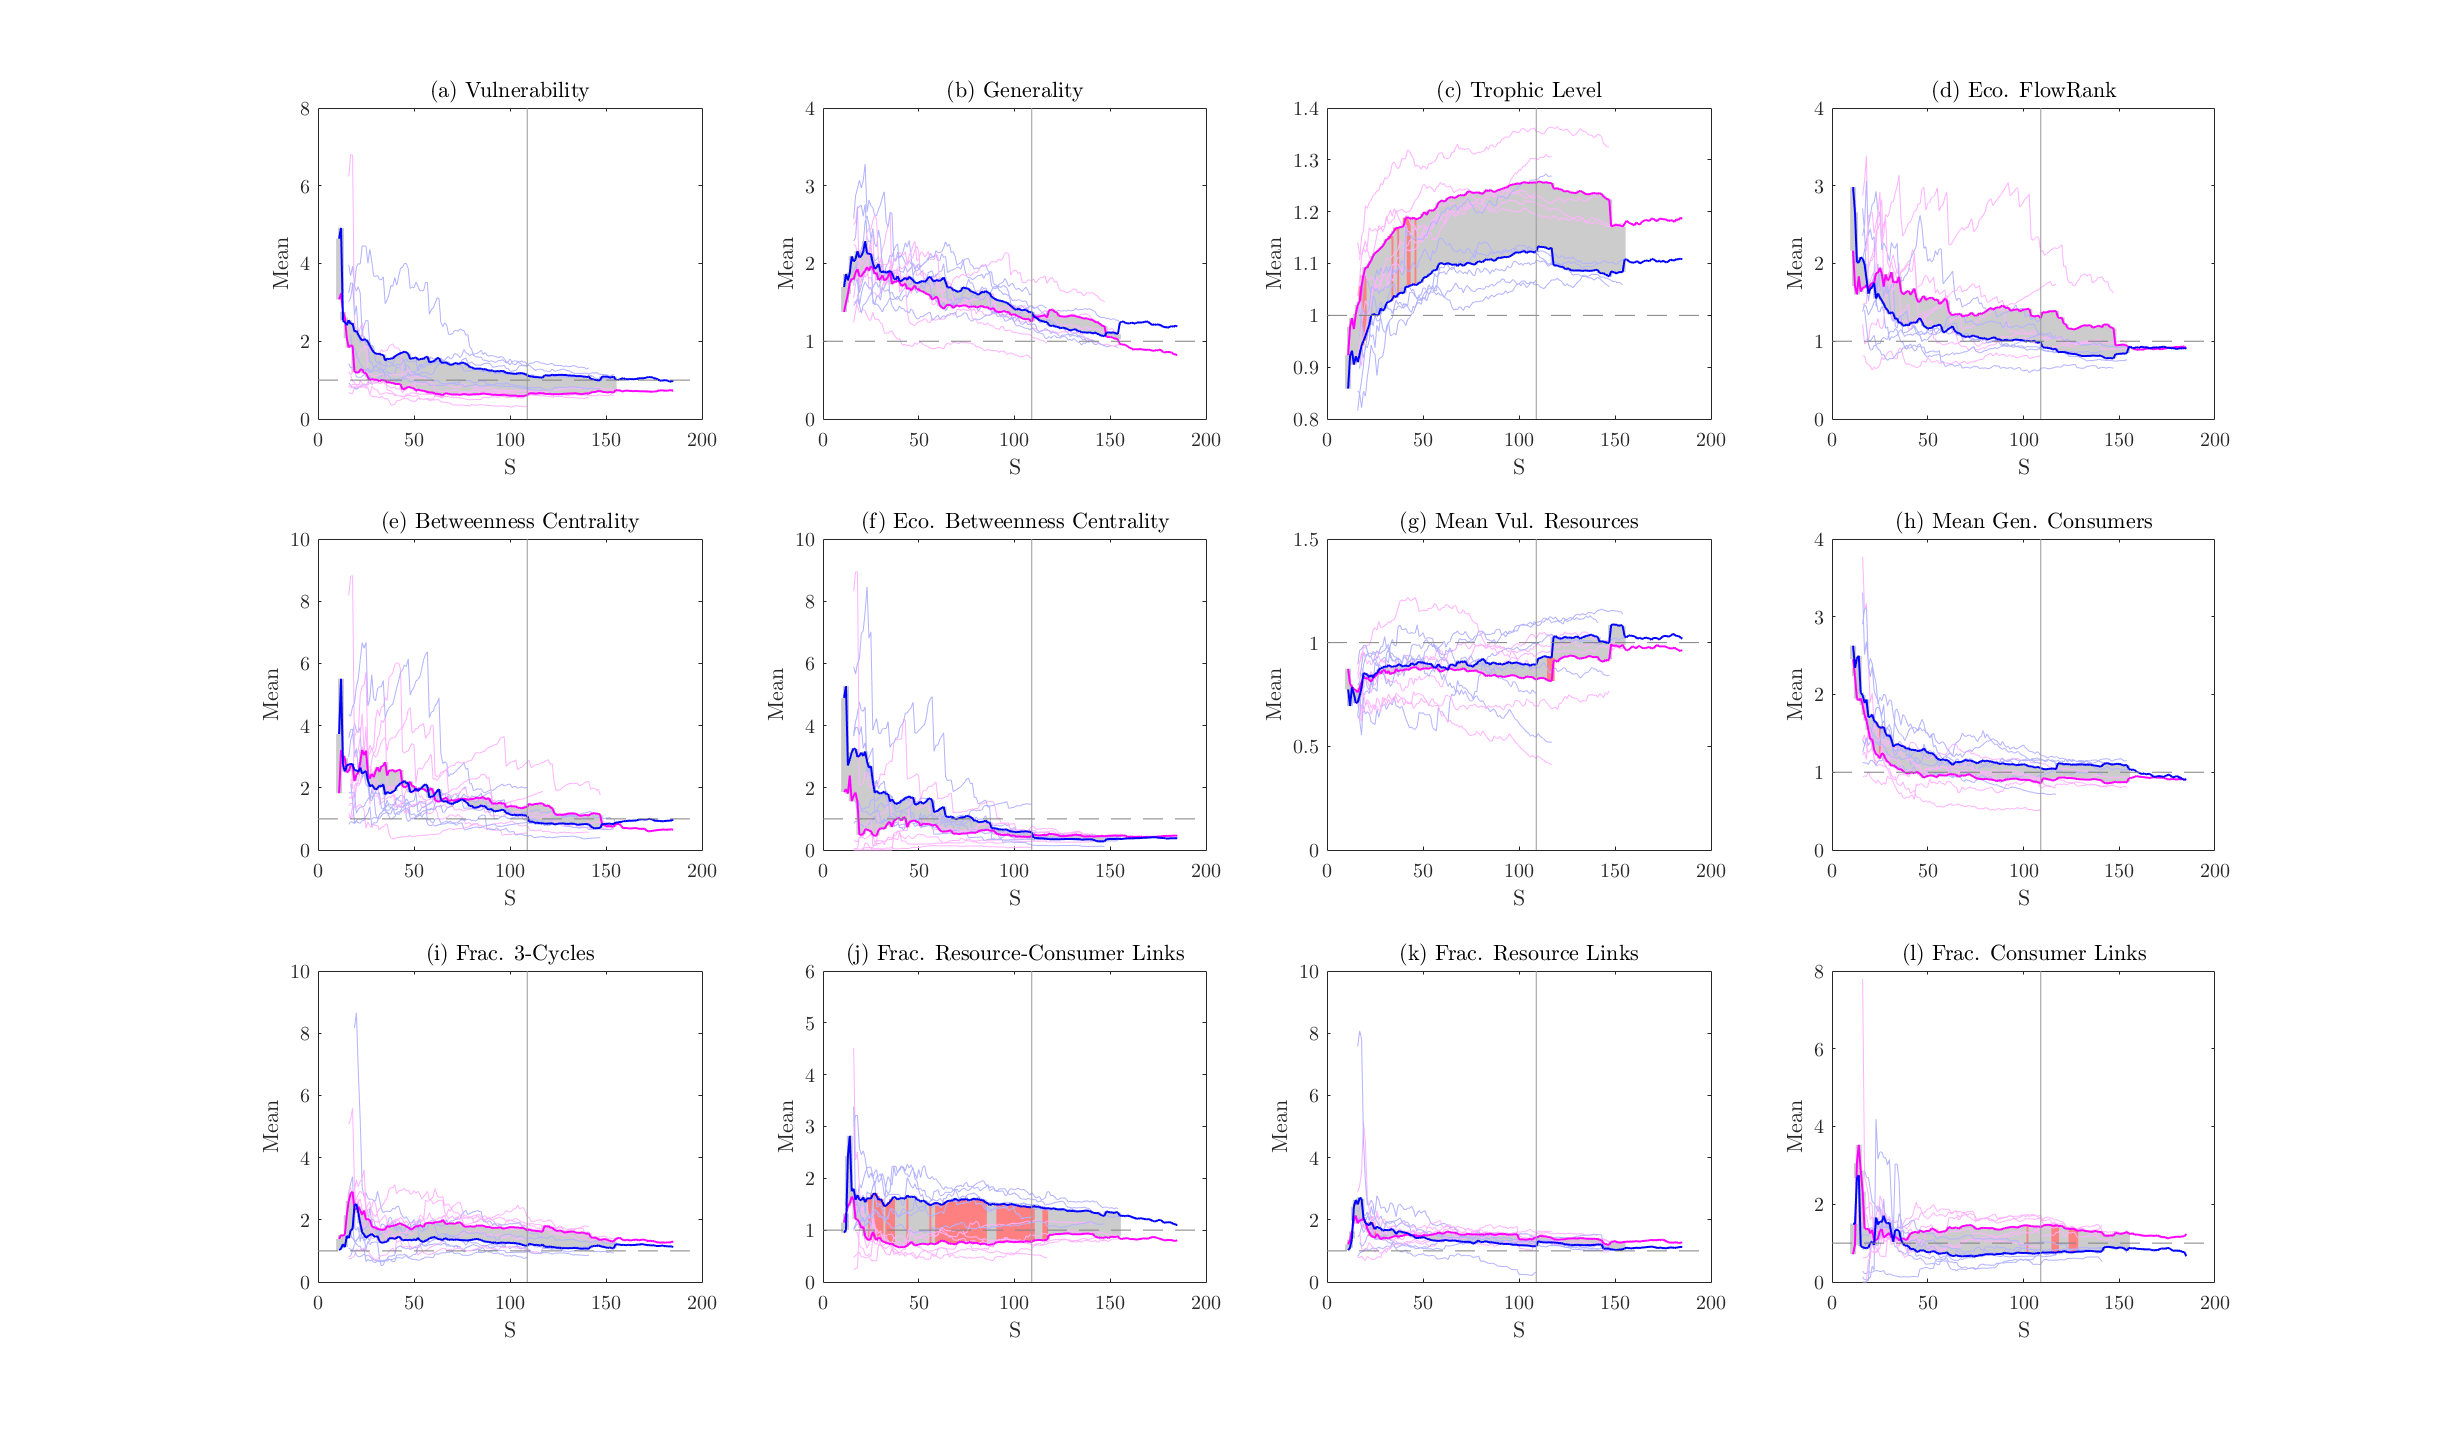
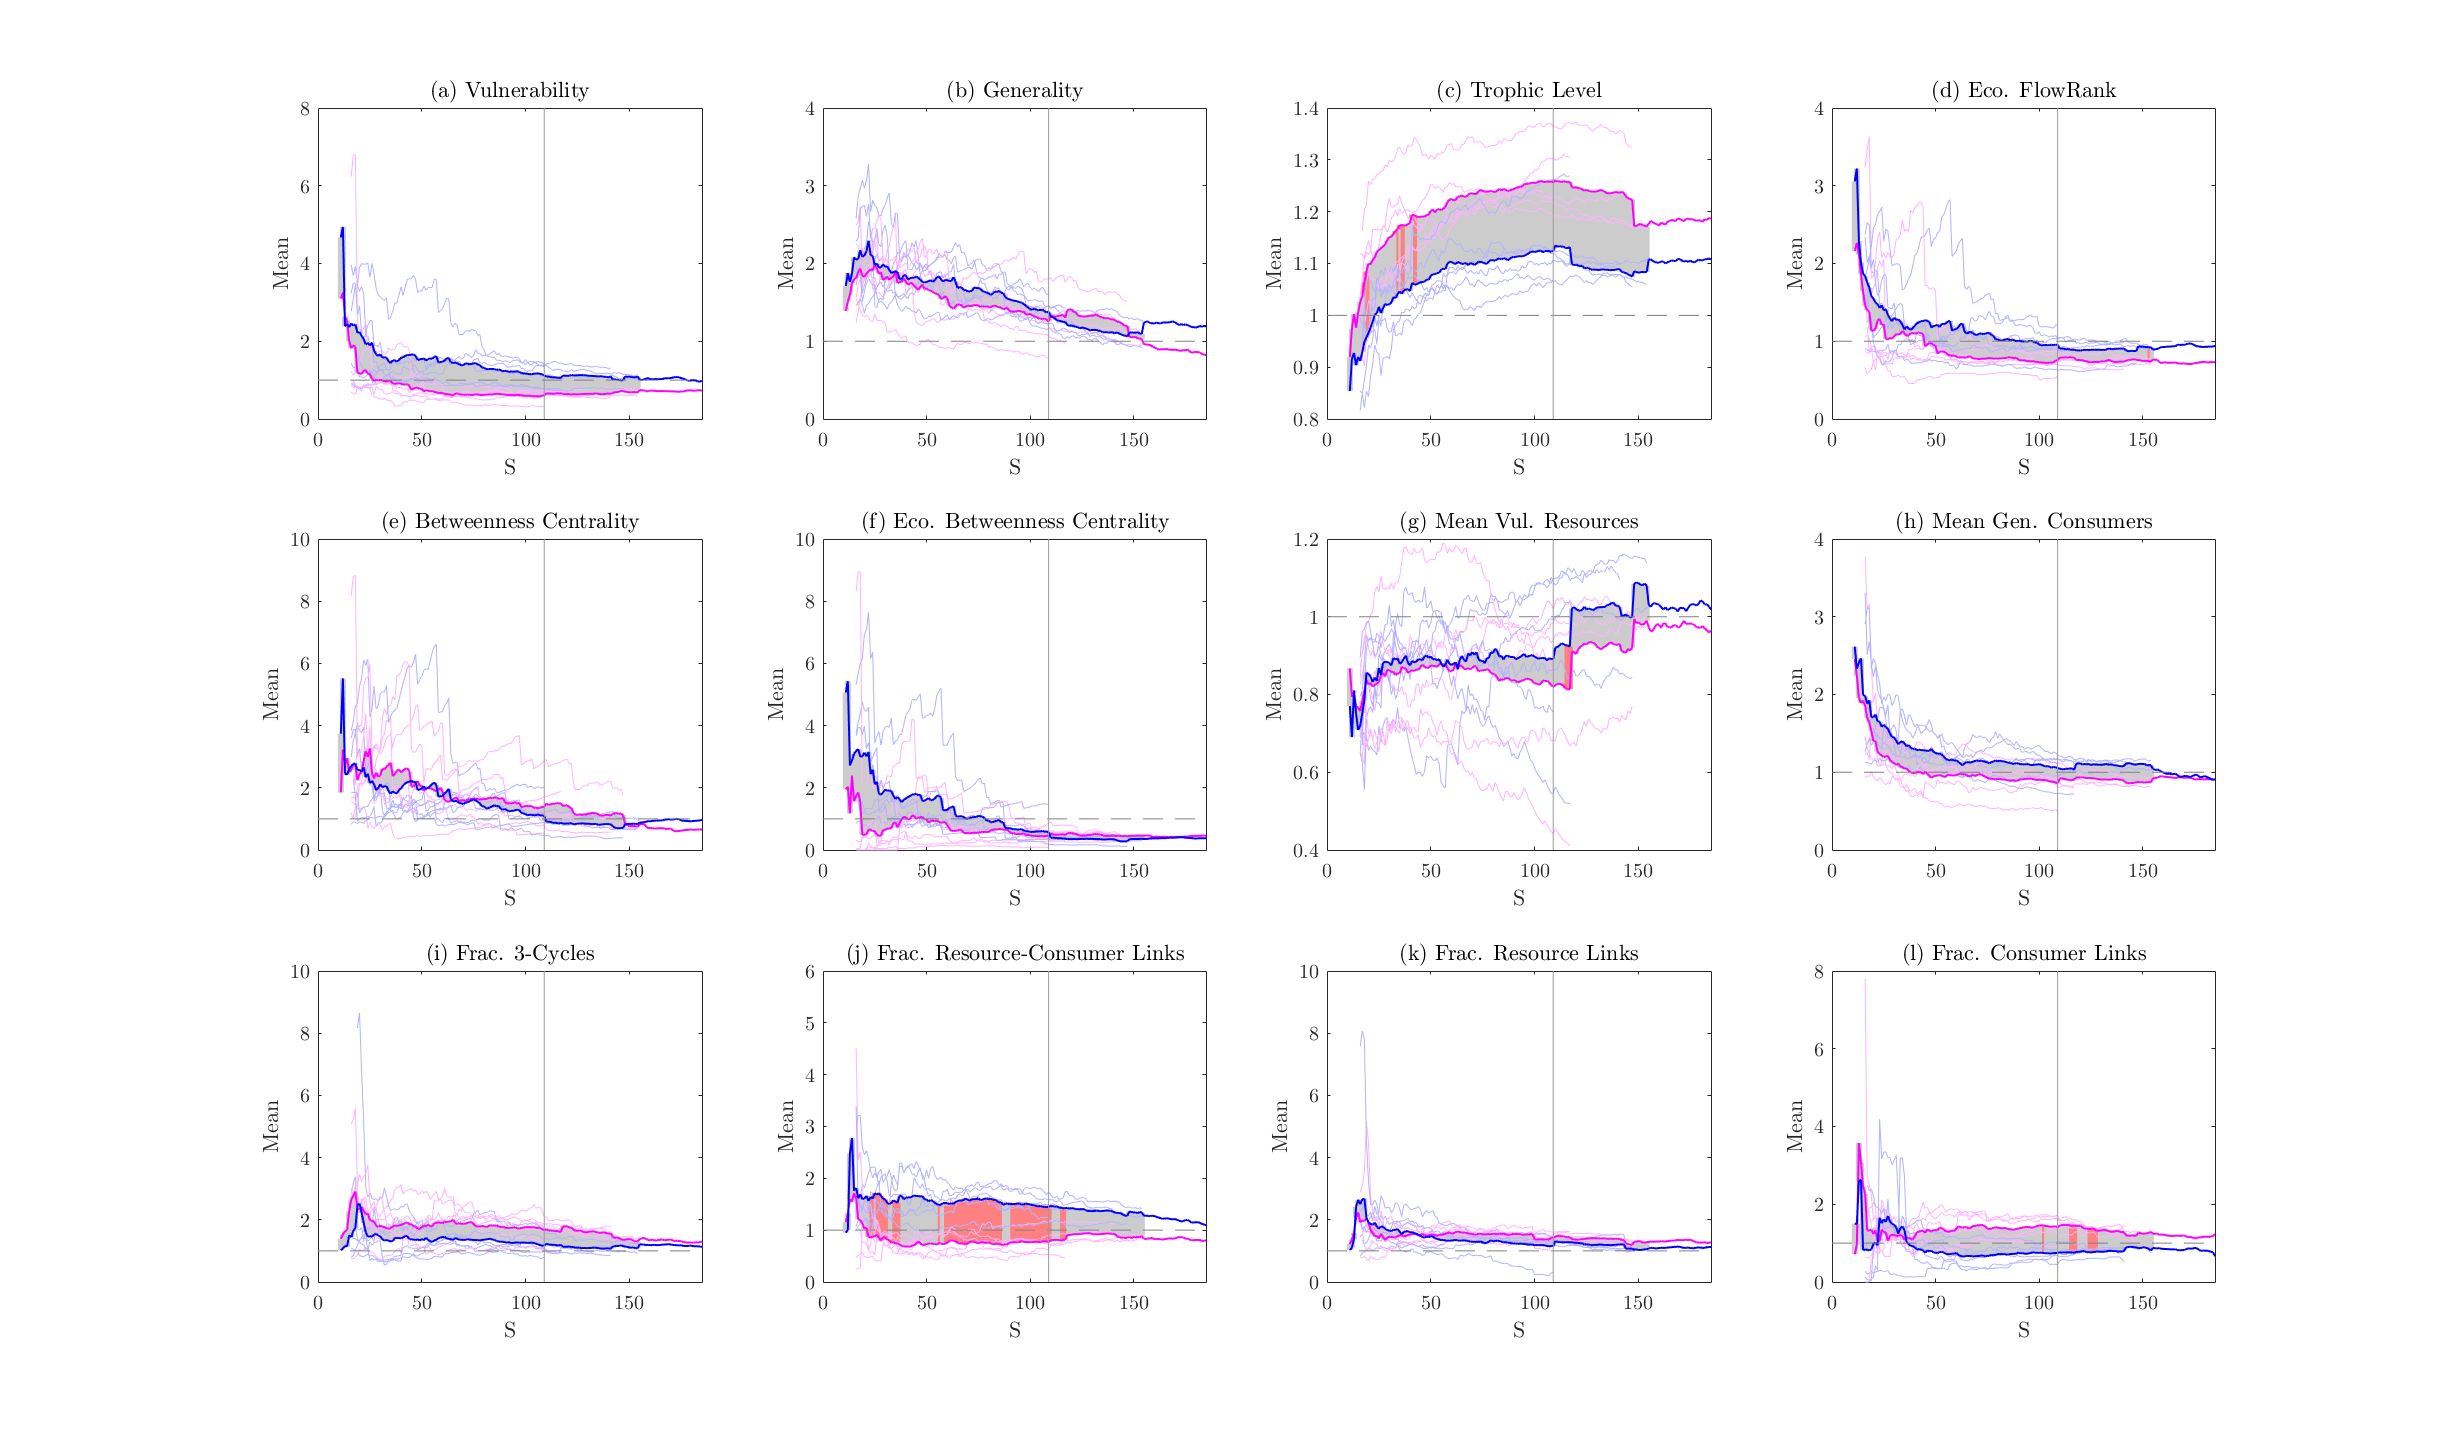
A few changes and classification results

diff --git a/Chapter2/code/Classifiers.m b/Chapter2/code/Classifiers.m
@@ -1,0 +1,242 @@
+%Biggest question here is HOW DO I REACH THESE KEEDS???
+
+%jk, biggest question is how to align the webs so that we can get a big fat
+%set of species to look at...
+%option 1: By web size
+%   Pros: easy-peasy, somewhat standard control
+%   Cons: agglomerated webs must be different from normal webs, right?;
+%         
+%option 2: By minimum node distance
+%   Pros: Agrees with the process; accounts for differences in the very
+%   process i am testing...
+%   Cons: Harder to line things up right
+%         
+%Another issue is whether to compare 
+% 1. parasites to free-livers, 
+% 2. parasites to carnivores,
+% 3. either of the above in an invertebrate-basal web
+% For whatever reason, I'm not really a big fan of the invertebrate-basal
+% web so I'm just comparing to carnivores since option 1 is pretty clearly
+% wrong anyway.
+
+%SPOILER ALERT: initial webs should be pretty opaque by these measures; the
+%**hope** is that later in the agglomeration sequences a pattern deus ex
+%machina's itself and slaps me across the face
+
+%Linear Regression
+%Logit model
+%Classification Trees
+%knn?
+
+%Setting up.
+clear
+
+load('data/Processed/webGeneration.mat')
+T = load('AgglomerationProps.mat','propsLocal','localCol');
+
+propsLocal = T.propsLocal;
+localCol = T.localCol;
+%In case you were wondering.
+%{
+localNames = {'web'           ...1
+                ,'vul'        ...2
+                ,'gen'        ...3
+                ,'patl'       ...4
+                ,'cc'         ...5
+                ,'pr'         ...6
+                ,'btwn'       ...7
+                ,'ecoBtwn'    ...8
+                ,'meanVulPrey'...9
+                ,'meanGenPred'...10
+                ,'para'       ...11
+                ,'free'       ...12 actually, carn
+                ,'S'          ...13
+                ,'size'       ...14
+                ,'ccCyc'      ...15
+                ,'ccMid'      ...16
+                ,'ccIn'       ...17
+                ,'ccOut'      ...18
+                };
+%}
+variableNames = {'vul'        ...1
+                ,'gen'        ...2
+                ,'patl'       ...3
+                ,'pr'         ...4
+                ,'btwn'       ...5
+                ,'ecoBtwn'    ...6
+                ,'meanVulPrey'...7
+                ,'meanGenPred'...8
+                ,'ccCyc'      ...9
+                ,'ccMid'      ...10
+                ,'ccIn'       ...11
+                ,'ccOut'      ...12
+                ,'para'       ...13
+                };
+clear T
+
+sMin = min(propsLocal(:,localCol('S')));
+sMax = max(propsLocal(:,localCol('S')));
+
+
+X0 = propsLocal(:,[2:4, 6:10, 15:18]);
+%Y01 = propsLocal(:,11);   %Continuous; for regression.
+Y0 = propsLocal(:,11)>0; %categorical
+sLevels = 30:85;
+nLevels = numel(sLevels);
+
+
+
+glms = cell(nLevels,1);
+trees = cell(nLevels,1);
+
+glmErrors = nan(nLevels,1);
+treeErrors = nan(nLevels,1);
+naddas  = nan(nLevels,1);
+
+treeParasites = nan(nLevels,1);
+glmParasites = nan(nLevels,1); 
+treeTotals = nan(nLevels,1);
+glmTotals = nan(nLevels,1);
+
+bigGlmParasites = nan(nLevels,1);
+bigTreeParasites = nan(nLevels,1);
+bigGlmTotals = nan(nLevels,1);
+bigTreeTotals = nan(nLevels,1);
+bigGlmErrors = nan(nLevels,1);
+bigTreeErrors = nan(nLevels,1);
+    
+pickForBig = propsLocal(:,localCol('S'))==100;
+XForBig = X0(pickForBig,:);
+YForBig = Y0(pickForBig,:);
+
+ glmBig = fitglm(XForBig,YForBig...
+        ,'distribution','binomial'...
+        ,'varNames',variableNames);
+   
+ treeBig = fitctree(XForBig,YForBig...
+        ,'PredictorNames',variableNames(1:12)...
+        ,'MaxNumSplits',4 ...
+        ,'MinleafSize',10);
+
+for ii = 1:nLevels
+    
+    s= sLevels(ii);
+    
+    pickThese = (propsLocal(:,localCol('S'))==s);
+    
+    X = X0(pickThese,:);
+    %Y1 = Y01(pickThese,:); %continuous for regression?
+    Y = Y0(pickThese,:);
+    
+    n = sum(pickThese);
+    nTrain = round(0.5*n);
+    nTest = n-nTrain;
+    
+    glmError = 0;
+    treeError = 0;
+    glmParasite = 0;
+    treeParasite = 0;
+    glmTotal = 0;
+    treeTotal = 0;
+    
+    bigGlmError = 0;
+    bigTreeError = 0;
+    bigGlmParasite = 0;
+    bigTreeParasite = 0;
+    bigGlmTotal = 0;
+    bigTreeTotal = 0;
+    
+    nadda = 0;
+    nReps = 10;
+    for z = 1:nReps
+    trainThese = false(n,1);
+    trainTheseIndices = randsample(n,nTrain);
+    trainThese(trainTheseIndices) = true;
+    testThese = ~trainThese;
+    
+    XTrain = X(trainThese,:);
+    YTrain = Y(trainThese,:);
+    
+    XTest = X(testThese,:);
+    YTest = Y(testThese,:);
+
+    glm = fitglm(XTrain,YTrain...
+        ,'distribution','binomial'...
+        ,'varNames',variableNames);
+    YTestHat = (glm.predict(XTest)>=.5);
+    glmError = (1 - sum(YTestHat == YTest)/nTest)/nReps + glmError;
+    glmTotal = (sum(YTestHat)/nTest)/nReps + glmTotal;
+    glmParasite = sum(YTest&YTestHat)/sum(YTest)/nReps + glmParasite;
+    
+    tree = fitctree(XTrain,YTrain...
+        ,'PredictorNames',variableNames(1:12)...
+        ,'MaxNumSplits',4 ...
+        ,'MinleafSize',10);
+    YTestHat = tree.predict(XTest);
+    treeError = (1 -sum(YTestHat == YTest)/nTest)/nReps + treeError;
+    treeTotal = (sum(YTestHat)/nTest)/nReps + treeTotal;
+    treeParasite = sum(YTest&YTestHat)/sum(YTest)/nReps + treeParasite;
+    
+    nadda = mean(YTest)/10 + nadda;
+    
+    YTestHat = treeBig.predict(XTest);
+    bigTreeError = (1 -sum(YTestHat == YTest)/nTest)/nReps + bigTreeError;
+    bigTreeTotal = (sum(YTestHat)/nTest)/nReps + bigTreeTotal;
+    bigTreeParasite = sum(YTest&YTestHat)/sum(YTest)/nReps + bigTreeParasite;
+    
+    YTestHat = (glmBig.predict(XTest)>=.5);
+    bigGlmError = (1 - sum(YTestHat == YTest)/nTest)/nReps + bigGlmError;
+    bigGlmTotal = (sum(YTestHat)/nTest)/nReps + bigGlmTotal;
+    bigGlmParasite = sum(YTest&YTestHat)/sum(YTest)/nReps + bigGlmParasite;
+    
+    end
+    
+    %lms{ii} = lm;
+    glms{ii} = glm;
+    trees{ii} = tree;
+    
+    glmParasites(ii) = glmParasite;
+    treeParasites(ii) = treeParasite;
+    glmTotals(ii) = glmTotal;
+    treeTotals(ii) = treeTotal;
+    glmErrors(ii) = glmError;
+    treeErrors(ii) = treeError;
+    
+    bigGlmParasites(ii) = bigGlmParasite;
+    bigTreeParasites(ii) = bigTreeParasite;
+    bigGlmTotals(ii) = bigGlmTotal;
+    bigTreeTotals(ii) = bigTreeTotal;
+    bigGlmErrors(ii) = bigGlmError;
+    bigTreeErrors(ii) = bigTreeError;
+    
+    naddas(ii) = nadda;
+    
+end
+close all
+figureFont = 'CMU Serif';
+lossFig = figure;
+plot(sLevels,[glmErrors treeErrors naddas]);
+%If you want to look at how the big tree does; I don't think it's good
+%because you have a lot of the same species at different points along the
+%clustering sequence.
+%glmTotals treeTotals bigGlmErrors bigTreeErrors bigGlmTotals bigTreeTotals])
+legend('logit','tree','frac. Para')
+%heheheh
+%...   ,'Pred. Frac. Para logit','Pred. Frac. Para Tree','bigLogit','bigTree','pred Frac. bigLogit','pred Frac. bigTree')
+title('Loss for two classifiers')
+xlabel('Web Size')
+ylabel('Loss')
+set(gcf, 'Units', 'Inches', 'Position', [0, 0, 17, 10])
+arrayfun(@(x) set(x,'FontName',figureFont),lossFig.Children);
+print('../figures/Loss.png','-dpng','-r0')
+accFig = figure;
+plot(sLevels,[glmParasites, treeParasites])
+%Samesies about the big tree/glm stuff.
+%, bigGlmParasites, bigTreeParasites])
+legend('glm','tree') %,'bigGlm','bigTree')
+title('Fractions Parasite Identified')
+xlabel('Web Size')
+ylabel('Fraction of Parasites')
+set(gcf, 'Units', 'Inches', 'Position', [0, 0, 17, 10])
+arrayfun(@(x) set(x,'FontName',figureFont),accFig.Children);
+print('../figures/ParasiteAcc.png','-dpng','-r0')

diff --git a/Chapter2/code/AgglomerationPlots.m b/Chapter2/code/AgglomerationPlots.m
@@ -226,32 +226,6 @@ for jj = 1:nLocalPropsPlotted
     hold off
     title(fancyLocalNames{jj},'Interpreter','LaTeX')
     
-    figure(localFigRelNodeLevel) 
-    for ii = 1:nWebs
-        subplot(3,4,jj);
-        hold on
-        %{
-        hEveryWeb{jj,ii} = plot(localMeans(beginnings(ii):endings(ii),localMeanCol('minDistance')),freesThisProperty(beginnings(ii):endings(ii))...
-            ,localMeans(beginnings(ii):endings(ii),localMeanCol('minDistance')),parasThisProperty(beginnings(ii):endings(ii))...
-            );
-        set(hEveryWeb{jj,ii},{'LineWidth'},{.5;.5})
-        set(hEveryWeb{jj,ii},{'Color'},{[.7,.7,1];[1 .7 1]})
-        %}
-        q = plot(1-allNodeLevels(beginnings(ii):endings(ii))/allNodeLevels(beginnings(ii)),freesThisProperty(beginnings(ii):endings(ii))...
-            - parasThisProperty(beginnings(ii):endings(ii))...
-            );
-        if ii == 4
-            q.Color = 'r';
-        else
-            q.Color =[.5,.5,.5];
-        end
-        hold off
-    end
-    q = refline(0,0);
-    q.LineStyle = '--';
-    q.Color = 'k';
-    title(fancyLocalNames{jj},'Interpreter','LaTeX')
-    
     figure(localFigFirst);
     xs = localMeans(selectThisLevelGlobal,localMeanCol(localPropsPlottedFree{jj}));
     ys = localMeans(selectThisLevelGlobal,localMeanCol(localPropsPlottedPara{jj}));
@@ -261,6 +235,8 @@ for jj = 1:nLocalPropsPlotted
     
     subplot(3,4,jj);
     h = gscatter(xs,ys,gps,markColors,'.',markSizes,'off');
+    xlabel('Carnivore Average')
+    ylabel('Parasite Average')
     title(fancyLocalNames{jj},'Interpreter','LaTeX')
     if jj == 8
         xlabel('Carnivore Average')
@@ -394,6 +370,8 @@ for jj = 1:nLocalPropsPlotted
         rl.LineStyle = '--';
         yl = ylim();
         ylim(yl);
+        xlabel('Min. Cluster Distance')
+        ylabel('Carnivore $-$ Parasite','Interpreter','LaTeX')
         hold off
         
         figure(localFigAll);
@@ -409,7 +387,8 @@ for jj = 1:nLocalPropsPlotted
         rl.Color = [.5,.5,.5];
         rl.LineStyle = '--';
         yl = ylim();
-        plot([Ss(end);Ss(end)],[yl(1);yl(2)],'Color',[.6,.6,.6])
+        plot([Ss(end);Ss(end)],[yl(1) ;yl(2)],'Color',[.6,.6,.6])
+        axis([0,max(Ss) ylim]);
         ylim(yl);
         hold off
 end

diff --git a/Chapter2/code/agglomPlot.m b/Chapter2/code/agglomPlot.m
@@ -1,4 +1,4 @@
-load('data/Processed/webGeneration.mat')
+load('data/Processed/webGenerationEctoInverts.mat')
 webs = 1:6;
 nWebs = numel(webs);
 propsLocal = cell(nWebs,1);
@@ -136,7 +136,7 @@ localMeansCol = containers.Map(localMeanNames, 1:numel(localMeanNames));
 propsLocal = cell2mat(propsLocal);
 propsGlobal = cell2mat(propsGlobal);
 propsLocalMeans = cell2mat(propsLocalMeans);
-save('AgglomerationProps.mat'...
+save('AgglomerationPropsEctoInverts.mat'...
             ,'propsLocal'...
             ,'propsGlobal'...
             ,'propsLocalMeans'...
